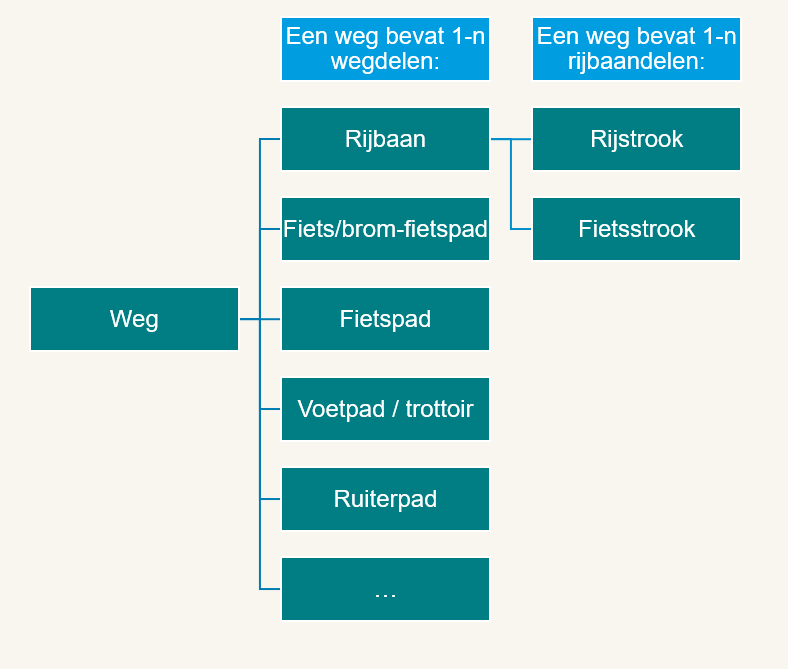
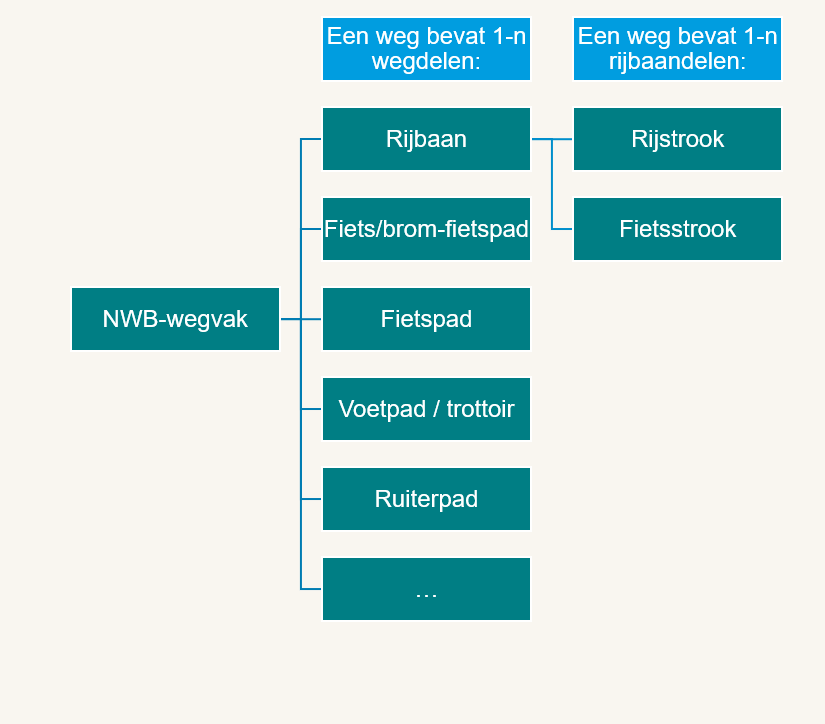
Deploying to docs.crow.nl from @
Reason: After push by ElisabethKloren

Changed region(s): [[0.0305, 0.1495, 0.9442, 0.9268], [0.335, 0.0, 0.9442, 0.1196]]

diff --git a/howtodatamanagement/hoofdstukken/5.md b/howtodatamanagement/hoofdstukken/5.md
@@ -1,7 +1,7 @@
 # Snelheid
 
 <figure>
-<img src="./hoofdstukken/media/verkeersmaatregelen-snelheid.PNG">
+<img src="./hoofdstukken/media/snelheid.png">
 <figcaption>De verkeersmaatregelen rondom snelheid</caption>
 </figure>
 
@@ -18,42 +18,66 @@ Daarnaast wordt in <a href="https://wetten.overheid.nl/jci1.3:c:BWBR0004825&hoof
 
 De waarden die bij de snelheidsregimes horen zijn niet allemaal opgenomen in het informatiemodel, deze staan in de wet.
 
-## Snelheidsregime trekkers
-De voor trekkers geldende voorwaarde **vrijliggend fiets/bromfietspad** kan worden aangegeven bij een wegvak
-De voor trekkers geldende voorwaarde **gesloten voor fietsers** moet zijn opgenomen als verkeersmaatregel gesloten voor..., en wordt daarom niet ook nog als snelheidsregime opgeslagen in de data.
-De voor trekkers geldende voorwaarde **Maximum snelheid 70 km/h** moet zijn opgenomen als lokale wettelijke maximumsnelheid, en wordt daarom niet ook nog als snelheidsregime opgeslagen in de data.
+### G- en H-Borden
+De verkeersmaatregel voor snelheidsregimes zijn gekoppeld aan de G-borden (verkeersregels) en de H-borden (komborden) uit de <a href="https://wetten.overheid.nl/BWBR0004825/2023-07-01#Bijlage1">RVV 1990, bijlage 1</a>.
+
+## Snelheidsvoorwaarden trekkers
+* De voor trekkers geldende voorwaarde **vrijliggend fiets/bromfietspad** kan worden aangegeven bij een wegvak
+* De voor trekkers geldende voorwaarde **gesloten voor fietsers** moet zijn opgenomen als verkeersmaatregel gesloten voor..., en wordt daarom niet ook nog als snelheidsregime opgeslagen in de data.
+* De voor trekkers geldende voorwaarde **Maximum snelheid 70 km/h** moet zijn opgenomen als lokale wettelijke maximumsnelheid, en wordt daarom niet ook nog als snelheidsregime opgeslagen in de data.
+
+<figure>
+<img src="./hoofdstukken/media/snelheidsvoorwaarden-trekkers.PNG">
+<figcaption>De in de RVV 1990 benoemde aanvullende snelheidsvoorwaarden voor trekkers. </caption>
+</figure>
 
 
 ## Lokale wettelijke maximumsnelheid
 De verkeersborden Verkeersbord A1 en Verkeersbord A2 geven aanvullende snelheidsbeperkingen aan, en het einde van de aanvullende snelheidsbeperking. Dit leidt tot een lokaal afwijkende maximumsnelheid ten opzichte van het snelheidsregime uit de <a href="https://wetten.overheid.nl/jci1.3:c:BWBR0004825&hoofdstuk=II&paragraaf=8&z=2023-07-01&g=2023-07-01">RVV 1990 § 8. Maximumsnelheid</a>.
 
 
-### Geldigheid voor voertuigtype
-De lokale wettelijke maximumsnelheid kan worden beperkt tot een specifiek voertuigtype, zoals vrachtwagens. 
-
-
-### Attributen 
+### Informatie snelheid
 Bij de [=lokale wettelijke maximumsnelheid=] kan de volgende informatie worden toegevoegd die door een computer kunnen worden geïnterpreteerd:
 * Lokale wettelijke maximumsnelheid, km/h
-* BijNatWegdek,geldigheid van verkeersregel bij nat wegdek
-* De attributen van [tijd](#tijd)
+* De attributen van [Voertuigtype](#voertuigtypen) 
+* De attributen van [Tijd](#tijd)
+* BijNatWegdek, geldigheid van de verkeersregel bij nat wegdek
 * Zone, type snelheidszone
-* TekstOnderbord: een vrije tekst voor een eventueel onderbord
-
 
 Alle overige teksten die op onderborden voorkomen bij snelheidsborden, worden alleen in de data vastgelegd als ondertekst bij een snelheidsbord op een fysieke plaat, bedoeld voor menselijke interpretatie.
 
 ## Adviessnelheid
-De Adviessnelheid met borden A4 en A5 kent een beperkt aantal attributen ten opzichte van de maximumsnelheid:
-* Adviessnelheid, km/h
-* TekstOnderbord: een vrije tekst voor een eventueel onderbord
 
-### Geldigheid voor voertuigtype
-De adviessnelheid kan worden beperkt tot een specifiek voertuigtype, zoals speedpedelecs op het fietspad binnen de bebouwde kom.
 
+### Informatie adviessnelheid
+De Adviessnelheid met borden A4 en A5 kent deze attributen:
+* Advies maximumsnelheid, km/h
+* De attributen van [Locatie](#locatie) NWB-wegvak, Wegdeel, Rijbaandeel, Rijrichting, werkingslengte vanaf - tot x % in het Wegvak
+* De attributen van [Voertuigtype](#voertuigtypen) 
+
+
+#### Speedpedelecs in de kom
 <aside class="note" title="Buitenwettelijk: Speedpedelecs op fiets binnen bebouwde kom, snelheidslimiet">
-EEen speedpedelec is wettelijk gezien een bromfiets. Veel wegbeheerders staan een speedpedelec toch toe op het fietspad binnen de bebouwde kom. Er is geen standaard wettelijke maximumsnelheid op het fietspad, omdat er geen bromfiets mag rijden. Om dit toch in de verkeerskundige informatie op te nemen zijn twee zaken noodzakelijk: geef bij het wegvak / wegdeel fietspad aan dat het toegankelijk is voor speedpedelecs, en neem een adviessnelheid op (eventueel zonder bord omdat dit voor de gehele gemeente geregeld kan zijn) om de speedpedelecs te verzoeken niet te hard te rijden op een fietspad binnen de kom.
+Een speedpedelec is wettelijk gezien een bromfiets. Veel wegbeheerders staan een speedpedelec toch toe op het fietspad binnen de bebouwde kom. Er is geen standaard wettelijke maximumsnelheid op het fietspad, omdat er geen bromfiets mag rijden. Om dit toch in de verkeerskundige informatie op te nemen zijn twee zaken noodzakelijk: geef bij het wegvak / wegdeel fietspad aan dat het toegankelijk is voor speedpedelecs, en neem een adviessnelheid op (eventueel zonder bord omdat dit voor de gehele gemeente geregeld kan zijn) om de speedpedelecs te verzoeken niet te hard te rijden op een fietspad binnen de kom.
 </aside>
+
+
+## A-borden
+De verkeersmaatregelen voor snelheid zijn gekoppeld aan de A-borden uit de <a href="https://wetten.overheid.nl/BWBR0004825/2023-07-01#Bijlage1">RVV 1990, bijlage 1</a>.
+
+De op het bord aangeduide snelheid is vastgelegd bij (1) Het snelheidsregime en (2) bij de verkeersmaatregelen "lokale wettelijke maximumsnelheid of "adviessnelheid".
+
+Er kunnen en paar soorten onderborden worden toegevoegd bij A-borden:
+
+* Onderbord met een na lengte: snelheid na x meter
+* Onderbord met een werkingslengte: snelheid geldt x meter
+* Een onderbord met een vrije tekst
+* Een onderbord met een waarschuwende tekst: reden / toelichting adviessnelheid
+* Onderbord "bij nat wegdek"
+* Onderbord met tijdsaanduiding af te leiden uit de attributen van [tijd](#tijd) bij de verkeersmaatregel
+* Onderbord "herhaling"
+
+
 
 
 

diff --git a/howtodatamanagement/hoofdstukken/3.md b/howtodatamanagement/hoofdstukken/3.md
@@ -1,5 +1,4 @@
-# Verkeersregels
-
+# Verkeersmaatregelen
 
 
 ## Locatie
@@ -12,12 +11,7 @@ Op welke locatie op de weg een [=verkeersmaatregel=] van toepassing is, wordt op
 </figure>
 
 
-### Verkeersmaatregel-NWB-Wegvak
-
-
-Een [=verkeersmaatregel=] of [=waarschuwing=] kan gelden voor één of meer wegvakken. De geldigheid van de verkeersregel kan eventueel beperkt worden tot een rijrichting of gedeelte van het wegvak of tot een rijstrook. 
-
-#### Wegvakid
+#### NWB-Wegvak
 * **wegvakid** De unieke identificatie van het wegvak
 
 
@@ -48,16 +42,10 @@ In het informatiemodel wordt ervan uitgegaan, dat de verkeersregel altijd op dez
 <figcaption> In het linkervoorbeeld kun je voor het gehele wegvak opgeven welke snelheidsbeperking geldt. In het rechtervoorbeeld moet je twee verkeersregels in de dataset opnemen, omdat per rijrichting het start- en eindpunt van de werkingslengte verschilt. </caption>
 </figure>
 
-### Verkeersmaatregel-Wegdeel
-# Wegdelen
+### Wegdeel
 
 Om goed te kunnen bepalen op welk deel van een weg een verkeersmaatregel van toepassing is, wordt onderscheid gemaakt tussen de [=wegdelen=] waarvoor aparte verkeersregels bestaan in <a href="https://wetten.overheid.nl/jci1.3:c:BWBR0004825&hoofdstuk=II&z=2023-07-01&g=2023-07-01">Hoofdstuk II Reglement verkeersregels en verkeerstekens 1990 (RVV 1990)</a>, voorbeelden: rijbaan, voetpad, fietspad, ruiterpad.
 
-
-<figure>
-<img src="./hoofdstukken/media/wegdelen.PNG">
-<figcaption>En weg en de delen die een weg kan hebben</caption>
-</figure>
 
 
 ### Zone
@@ -66,7 +54,7 @@ Deze zone bestaat in de dataset, desgewenst kan een relatie gelegd worden met ee
 
 <figure>
 <img src="./hoofdstukken/media/zone.PNG">
-<figcaption> Een zone met relatie tot NWB-wegvak en eventueel een representatie als geometrisch object </caption>
+<figcaption> Een zone met relatie tot verkeersmaatrgel en eventueel een representatie als geometrisch object </caption>
 </figure>
 
 ## Tijd
@@ -90,9 +78,18 @@ Deze zone bestaat in de dataset, desgewenst kan een relatie gelegd worden met ee
 
 
 
-### Geldigheid voor specifieke voertuigen
+## Voertuigtypen
 
 De verkeersmaatregel kan gelden voor specifieke voertuigen, of juist niet gelden voor specifieke voertuigen.
+
+Daarbij geldt dat het kan gelden voor een lijst met voertuigtypen, of voor een handmatig ingevuld soort voertuig of verkeersbestemming.
+
+Daardoor ontstaan vier attributen voor voertuigtypen:
+
+1. Geldt voor - lijst
+2. Geldt niet voor - lijst
+3. Geldt voor bijzonder verkeer
+4. Geldt niet voor bijzonder verkeer
 
 <div class="issue" data-number="326"></div>
 

diff --git a/howtodatamanagement/hoofdstukken/6.md b/howtodatamanagement/hoofdstukken/6.md
@@ -1,35 +1,34 @@
-# Voorrang
+# Voorrang 
 
 <figure>
 <img src="./hoofdstukken/media/verkeersmaatregelen-voorrang.PNG">
 <figcaption>De verkeersmaatregelen rondom voorrang</caption>
 </figure>
 
-## Voorrangskruispunt
 
-### Locatie
+## Voorrang verlenen
+Op een ondergeschikte weg begint of eindigt het [=NWB-Wegvak=] op een [=NWB-junctie=] waar voorrang gegeven moet worden. Door bij de verkeersmaatregel "voorrang verlenen" op te nemen in welke rijrichting deze geldt, is voor een computer duidelijk waar voorrang verleend moet worden.
 
-#### Kruispunt: rijrichting
-Op een (voorrangs-)kruispunt bevindt zich altijd een junctie waarbij het NWB-wegvak ophoudt dus de relatie met wegvak + attribuut rijrichting geeft aan waar voorrang verkregen dan wel verleend wordt. \
+## Voorrang krijgen
+De verkeersmaatregel "Voorrangsweg" geldt voor het hele NWB-wegvak in beide richtingen. 
 
-#### Kruispunt: weg van rechts en/of links
-Op de voorrangsweg moet ook nog worden toegevoegd weg van links en/of rechts.
+Op de voorrangsweg begint of eindigt het [=NWB-Wegvak=] op een [=NWB-junctie=]; de waarschuwing "Voorrangskruispunt" geldt voor één richting, per definitie op het einde van het wegvak. Daarbij kan worden aangegeven of er een ondergeschikte weg van links en/of rechts komt.
 
 
-### Attributen
-* Werkingslengte-na x meter
-* TekstOnderbord: een vrije tekst voor een eventueel onderbord
-* Waarschuwing: een waarschuwende tekst voor een eventueel onderbord
+### Informatie voorrang
+* Waarschuwing ondergeschikte weg van links - WegvakID
+* Waarschuwing ondergeschikte weg van rechts - WegvakID
+* De attributen van [Locatie](#locatie) NWB-wegvak, Rijrichting, werkingslengte vanaf - tot x % in het Wegvak
 
 
 ## B-borden
 
 De verkeersmaatregelen voor voorrang zijn gekoppeld aan de b-borden uit de <a href="https://wetten.overheid.nl/BWBR0004825/2023-07-01#Bijlage1">RVV 1990, bijlage 1</a>.
 
-### Standarad onderborden
-De standaard onderborden bij de verkeersmaatregelen voor voorrang zijn gerelateerd aan de attributen.
+### Onderborden bij B-borden
+Er kunnen en paar soorten onderborden worden toegevoegd bij B-borden:
 
-* Werkingslengte-na x meter
-* TekstOnderbord: een vrije tekst voor een eventueel onderbord
-* Waarschuwing: een waarschuwende tekst voor een eventueel onderbord
+* Onderbord met een werking na: gesloten na x meter 
+* Een onderbord met een vrije tekst
+* Een onderbord met een waarschuwende tekst 
 

diff --git a/howtodatamanagement/hoofdstukken/2.md b/howtodatamanagement/hoofdstukken/2.md
@@ -16,23 +16,30 @@ In het <a href="https://wetten.overheid.nl/jci1.3:c:BWBR0004825&hoofdstuk=II&z=2
 
 Voorbeeld: Snelheid
 * De **[=verkeersmaatregel=]** is [=standaard wettelijke maximumsnelheid=] (bijvoorbeeld, binnen de bebouwde kom)
-* Deze [=verkeersmaatregel=] geldt voor een **[=NWB-wegvak=]**, deze krijgt een [=snelheidsregime=]
+* Deze [=verkeersmaatregel=] geldt voor een **[=NWB-wegvak=]**, deze krijgt een [=snelheidsregime=]. De wegcategorie voor snelheid geldt altijd voor het gehele [=NWB-Wegvak=], omdat bij deze regels in de wet bijvoorbeeld ook snelheden aangegeven worden voor het trottoir.
 * De [=verkeersmaatregel=] wordt aangeroepen met een kombord
+
 
 Voorbeeld: Weg voor specifiek voertuigtype
 * De **[=verkeersmaatregel=]** is een bestemming voor een voertuig, voor ruiters
-* Deze [=verkeersmaatregel=] geldt voor een **[=NWB-wegvak=]**, deze krijgt een bestemming voor een voertuig, voor ruiters
+* Deze [=verkeersmaatregel=] geldt voor een **[=NWB-wegvak=]** of voor een [=Wegdeel=] of voor een [=rijbaandeel=], deze krijgt een bestemming voor een voertuig, voor ruiters.
 * De [=verkeersmaatregel=] wordt aangeroepen met bord Ruiterpad.
 
 
 
+
 ## Wegdeel
-Sommige verkeersregels gaan over [wegdelen](#verkeersregel-wegdeel), zoals het vrijliggende fietspad (onderdeel van de weg). Let op: een geheel NWB-wegvak kan dus een ruiterpad zijn; of het ruiterpad is onderdeel van een NWB-wegvak en wordt dan aangeduid als wegdeel.
+Sommige verkeersregels gaan over [wegdelen](#verkeersmaatregel-wegdeel), zoals het vrijliggende fietspad (onderdeel van de weg). Let op: een geheel NWB-wegvak kan dus een ruiterpad zijn; of het ruiterpad is onderdeel van een NWB-wegvak en wordt dan aangeduid als wegdeel.
 
 Voorbeeld: Wegdeel voor specifiek voertuigtype
 * De **[=verkeersmaatregel=]** is aanroepen, dat het wegdeel bestemd is voor fietsers
-* Deze [=verkeersmaatregel=] geldt voor een **[=wegdeel=]** van het [=NWB-wegvak=], het vrijliggend fietspad
+* Deze [=verkeersmaatregel=] geldt voor een **[=wegdeel=]** van het [=NWB-wegvak=], het vrijliggend fietspad of een fietsstrook (een deel van het wegdeel Rijbaan)
 * De [=verkeersmaatregel=] wordt aangeroepen met bord Fietspad
+
+<figure>
+<img src="./hoofdstukken/media/wegdelen.PNG">
+<figcaption>En weg en de delen die een weg kan hebben</caption>
+</figure>
 
 
 

diff --git a/howtodatamanagement/hoofdstukken/7.md b/howtodatamanagement/hoofdstukken/7.md
@@ -1,4 +1,50 @@
-# Geslotenverklaring
+# Gesloten en open
 
 
-nnn
+
+## Geslotenverklaring
+
+<figure>
+<img src="./hoofdstukken/media/verkeersmaatregelen-geslotenverklaring.PNG">
+<figcaption>De verkeersmaatregelen rondom geslotenverklaring</caption>
+</figure>
+
+
+### Informatie geslotenverklaring
+Bij de geslotenverklaring kan de volgende informatie worden toegevoegd die door een computer kunnen worden geïnterpreteerd:
+* Geldt voor / Geldt niet voor Voertuigtype: een lijst met voertuigtypes
+* Geldt voor / Geldt niet voor Specifiekevoertuigen: een zelf in te vullen soort verkeer, bestemming of voertuigtype 
+* Emissieklasse
+* De attributen van [tijd](#tijd)
+
+
+
+
+## Openverklaring
+De inverse van de geslotenverklaring is de openverklaring. Vreemde eend in de bijt, twee situatie:
+1. De spitsstrook is standaard gesloten, tenzij deze openverklaard wordt, daarom is hier een eigen verkeersmaatregel voor.
+2. een situatie waarin het onduidelijk is voor het verkeer of een weg alleen een in- of uitgang is of beide, bijvoorbeeld de toegang naar een parkeerplaats. Er is dus eigenlijk geen verkeersmaatregel, het is meer een uitnodiging om de weg te gebruiken.
+
+<figure>
+<img src="./hoofdstukken/media/verkeersmaatregelen-openverklaring.PNG">
+<figcaption>De verkeersmaatregelen rondom openverklaring</caption>
+</figure>
+
+### Informatie openverklaring
+* De attributen van [tijd](#tijd)
+* De [werkingslengte](#werkingslengte) vanaf - tot x % in het Wegvak
+
+## C-borden
+
+De verkeersmaatregelen voor geslotenverklaring en spitsstrook open zijn gekoppeld aan de b-borden uit de <a href="https://wetten.overheid.nl/BWBR0004825/2023-07-01#Bijlage1">RVV 1990, bijlage 1</a>.
+
+### Onderborden bij C-borden
+Er kunnen en paar soorten onderborden worden toegevoegd bij B-borden:
+
+* Onderbord met een werking na: voorrang geven na x meter of kruising na x meter
+* Onderbord met een werkingslengte: gesloten over een lengte van x meter
+* Onderbord met uitgezonderd voertuigtype
+* Onderbord met geldig voor voertuigtype
+* Onderborden milieu-emissieklassen
+* Een onderbord met een vrije tekst
+* Een onderbord met een waarschuwende tekst 

diff --git a/begrippen-en-definities.md b/begrippen-en-definities.md
@@ -614,6 +614,14 @@ Delen van de [=weg=] waarvoor aparte verkeersregels bestaan in <a href="https://
 
 </dd>
 
+<dt><dfn data-lt="rijbaandeel|rijbaandelen">rijbaandeel</dfn></dt>
+<dd>
+
+Delen van de [=rijbaan=] waarvoor aparte verkeersregels bestaan in <a href="https://wetten.overheid.nl/jci1.3:c:BWBR0004825&hoofdstuk=II&z=2023-07-01&g=2023-07-01">Hoofdstuk II Reglement verkeersregels en verkeerstekens 1990 (RVV 1990)</a>, dit betreft rijstroken en fietsstroken
+
+</dd>
+
+
 <dt><dfn >wegalignement</dfn></dt>
 <dd>
 

diff --git a/howtodatamanagement/hoofdstukken/8.md b/howtodatamanagement/hoofdstukken/8.md
@@ -1,4 +1,13 @@
-# Rijrichting
+# Verplichte Rijrichting
 
 
-,,,,
+<figure>
+<img src="./hoofdstukken/media/verkeersmaatregelen-rijrichting.PNG">
+<figcaption>De verkeersmaatregelen rondom rijrichting</caption>
+</figure>
+
+## Informatie rijrichting
+
+* De attributen van [Locatie](#locatie) NWB-wegvak, Rijrichting, werkingslengte vanaf - tot x % in het Wegvak
+* 1 - n keer "verplicht rijden naar" - wegvakID
+* Obstakel passeren: Links, rechts, beide

diff --git a/howtodatamanagement/hoofdstukken/9.md b/howtodatamanagement/hoofdstukken/9.md
@@ -1,2 +1,18 @@
 # Parkeren en stilstaan
 
+
+<figure>
+<img src="./hoofdstukken/media/verkeersmaatregelen-parkeren.PNG">
+<figcaption>De verkeersmaatregelen rondom parkeren</caption>
+</figure>
+
+## Parkeerverbod
+
+
+
+
+## Verbod op stilstaan
+
+
+
+## Parkeergelegenheid
